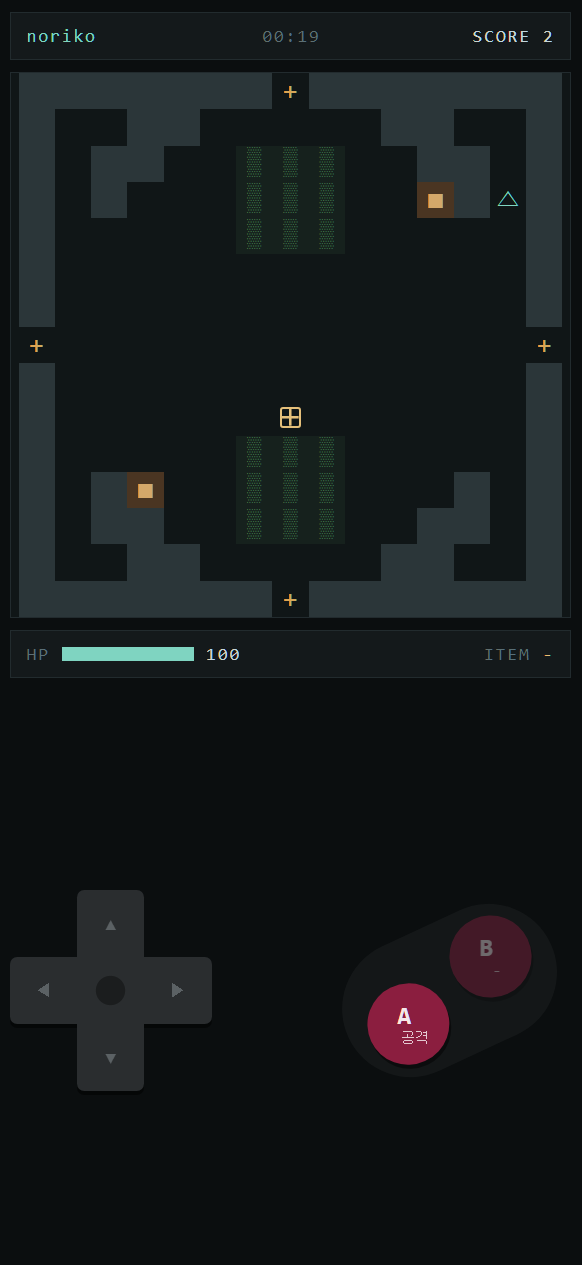
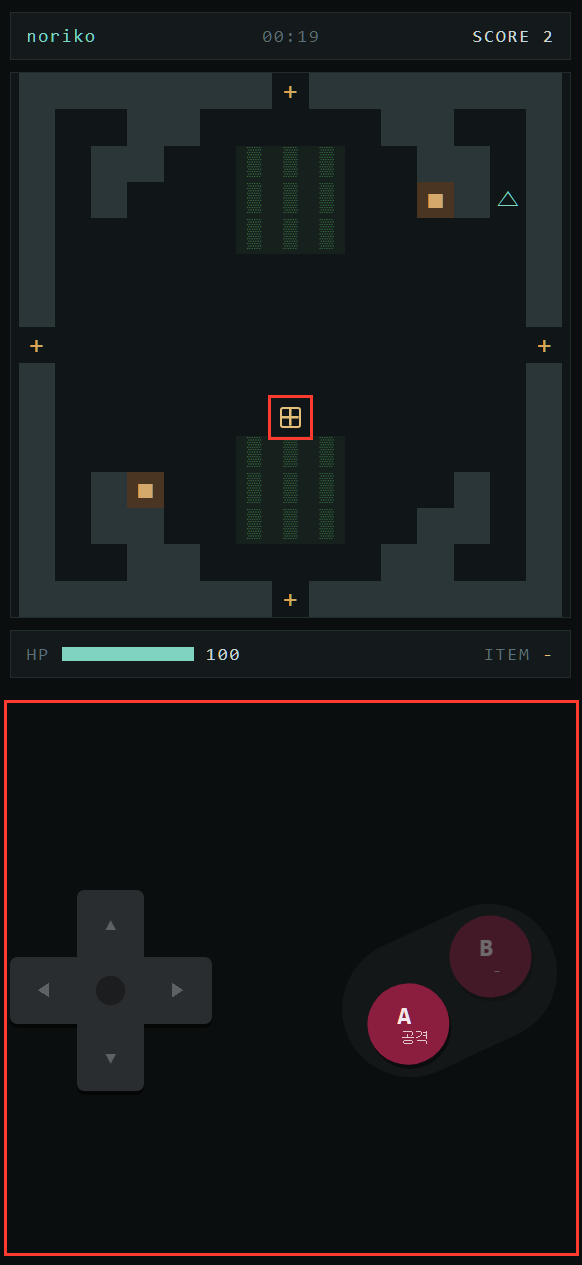
docs: box the point of the game screenshots too
The rule now covers every screenshot: the lobby's ranking, the two players in
a room, the phone's touch surface and a floor crate, and the away message.

Changed region(s): [[0.0, 0.5549, 1.0, 1.0], [0.5258, 0.3083, 0.5567, 0.3391], [0.4639, 0.3083, 0.4948, 0.3391]]

diff --git a/CLAUDE.md b/CLAUDE.md
@@ -397,9 +397,12 @@ screenshot as part of finishing it, not afterwards.
   (`2026-10-03-floor-crate.png`). Never overwrite an older one: the series is the story.
 - **Index:** add a line to `docs/images/README.md` — file, date, what it shows, and the
   commit or feature it belongs to.
-- **Mark the point:** draw a red box (3 px, `#ff3b30`) around what the shot is there to
-  prove — the one rule, setting or result a reader should look at. One or two boxes,
-  not a dozen. Console shots especially; a game screen that speaks for itself needs none.
+- **Mark the point, in every screenshot, game and AWS alike:** draw a red box (3 px,
+  `#ff3b30`) around what the shot is there to show — the new feature on a game screen
+  (the crate, the touch zone, the message), the rule, setting or result in a console.
+  One or two boxes, not a dozen. The game itself uses red for enemies and low HP, so
+  leave a margin round what you box rather than tracing a single tile. Check the box
+  landed where intended by opening the saved file before committing.
 - **Size:** crop to what matters and keep each file under about 300 KB. Phone layouts at
   390 px wide, desktop at the game's own width, not the whole monitor.
 - **Before committing, look at it.** Nothing that is not already written in
